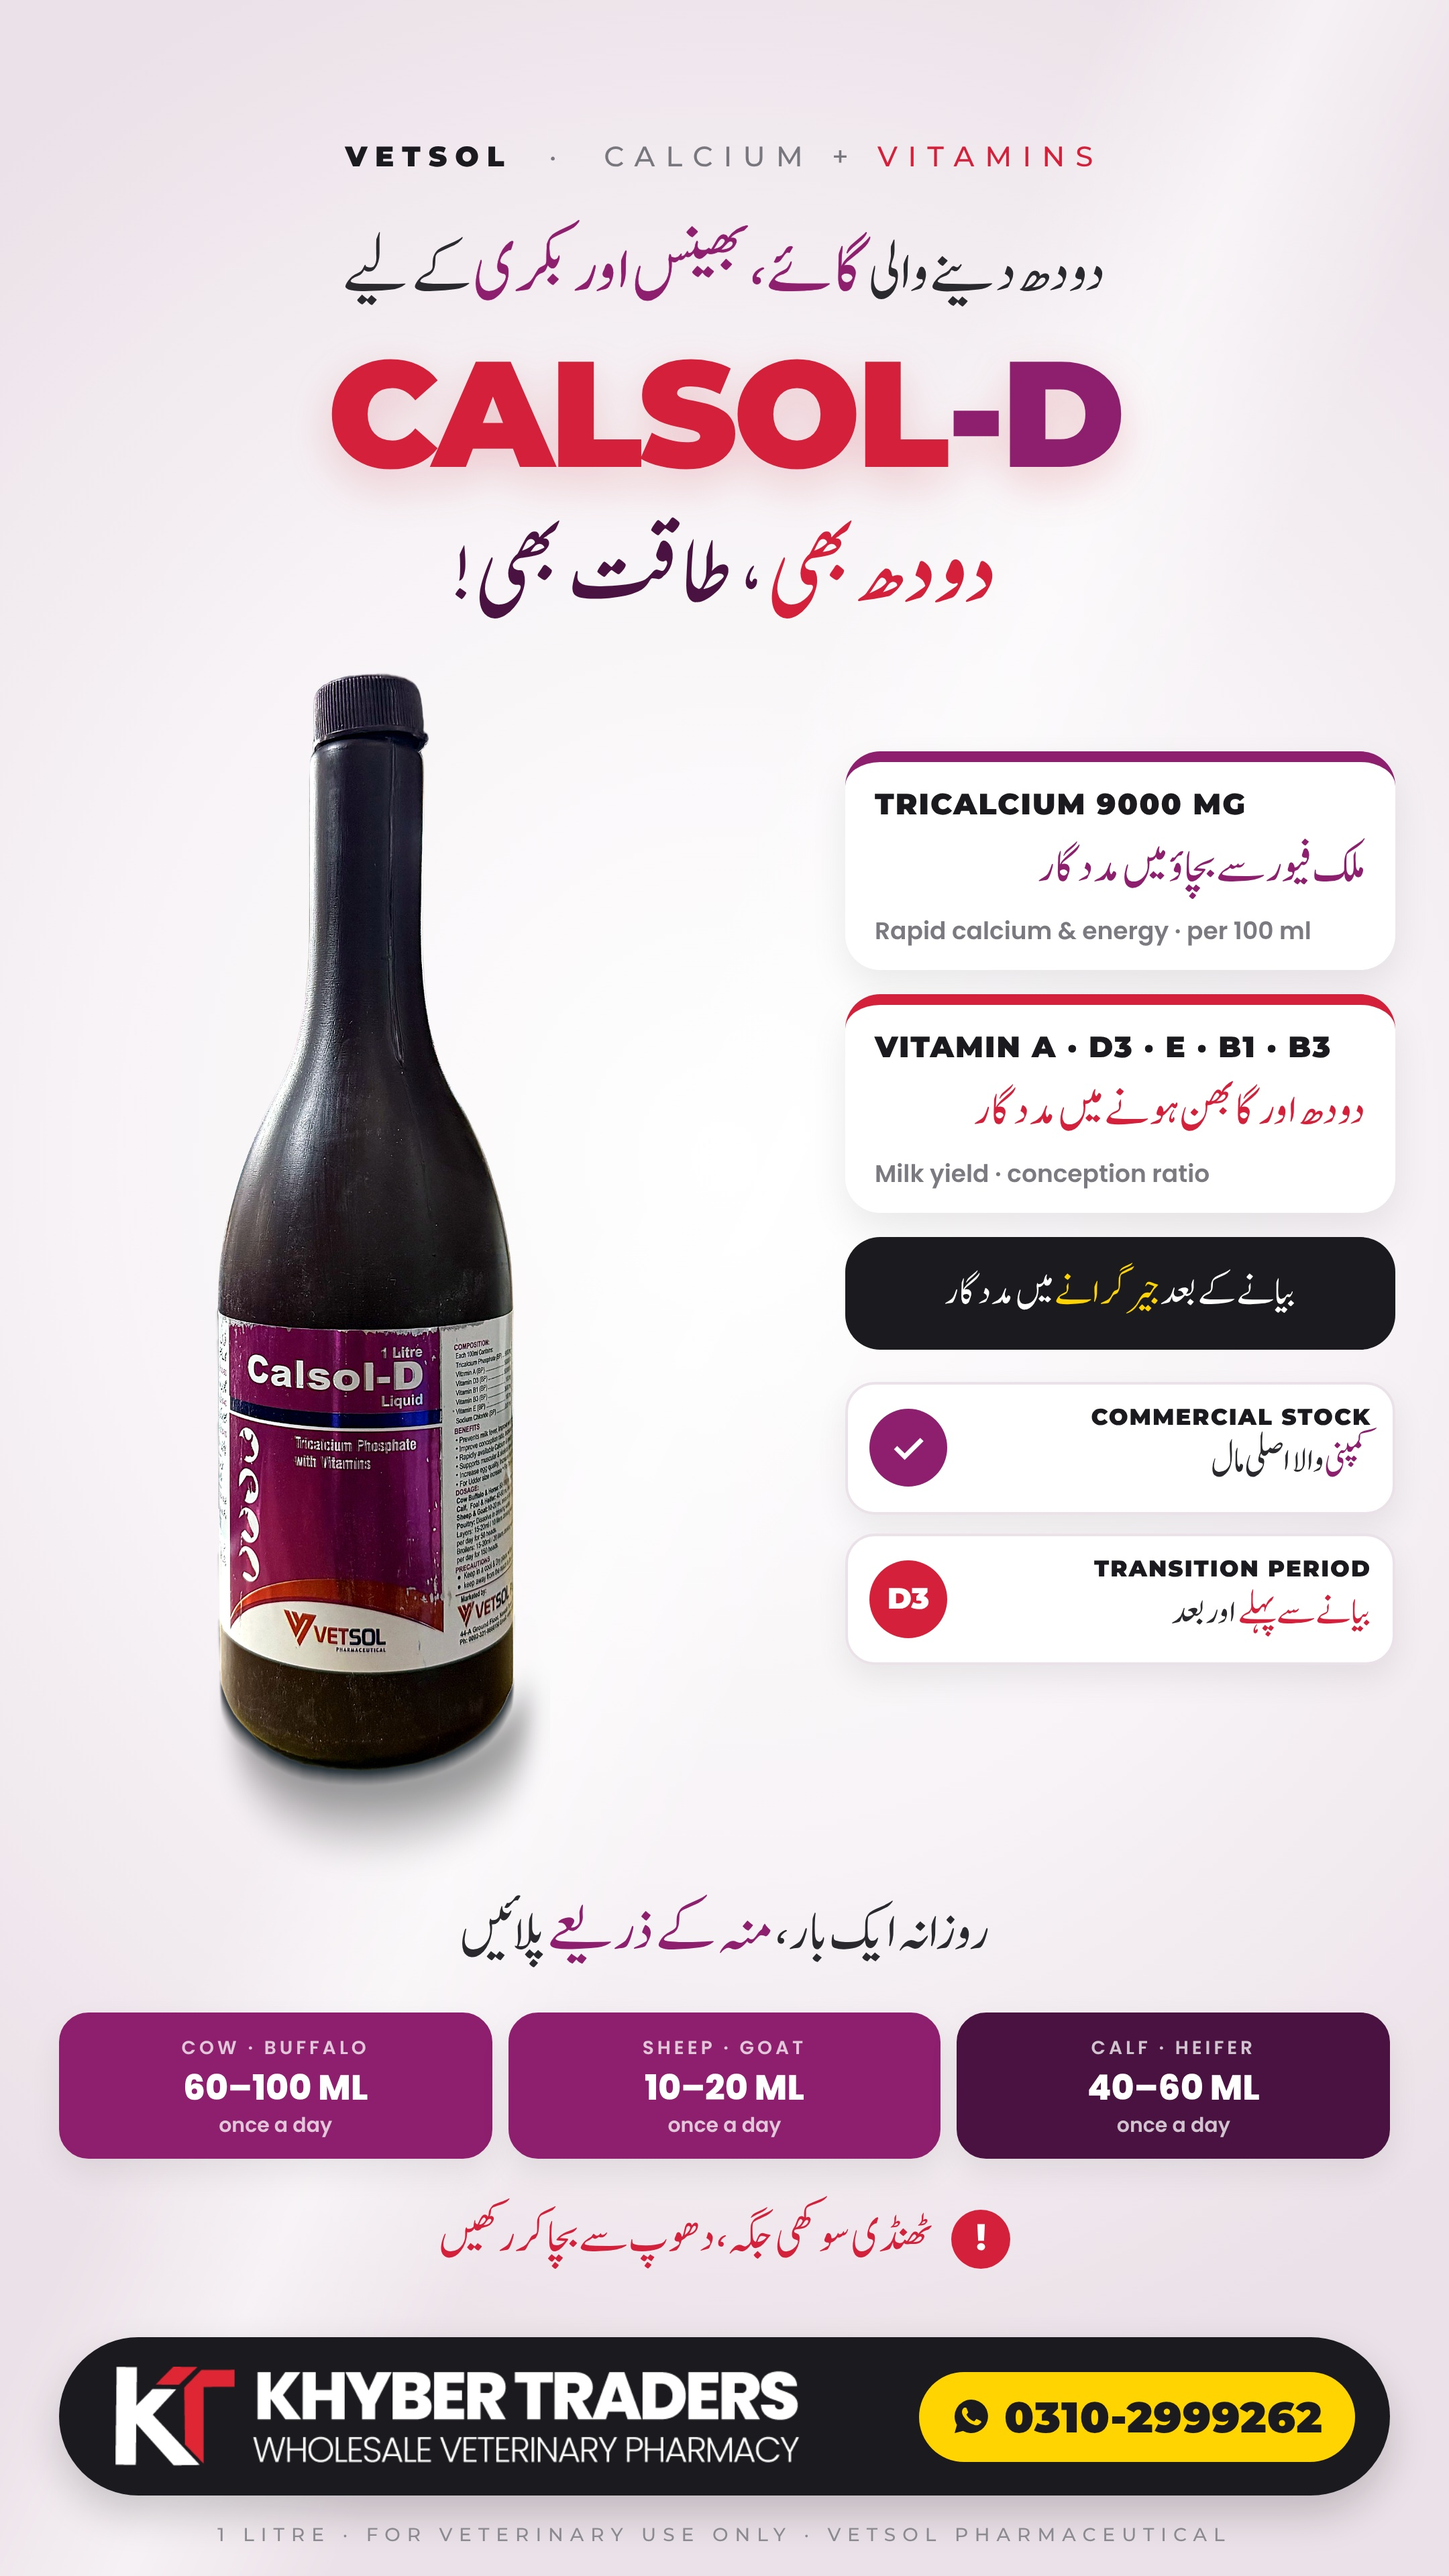
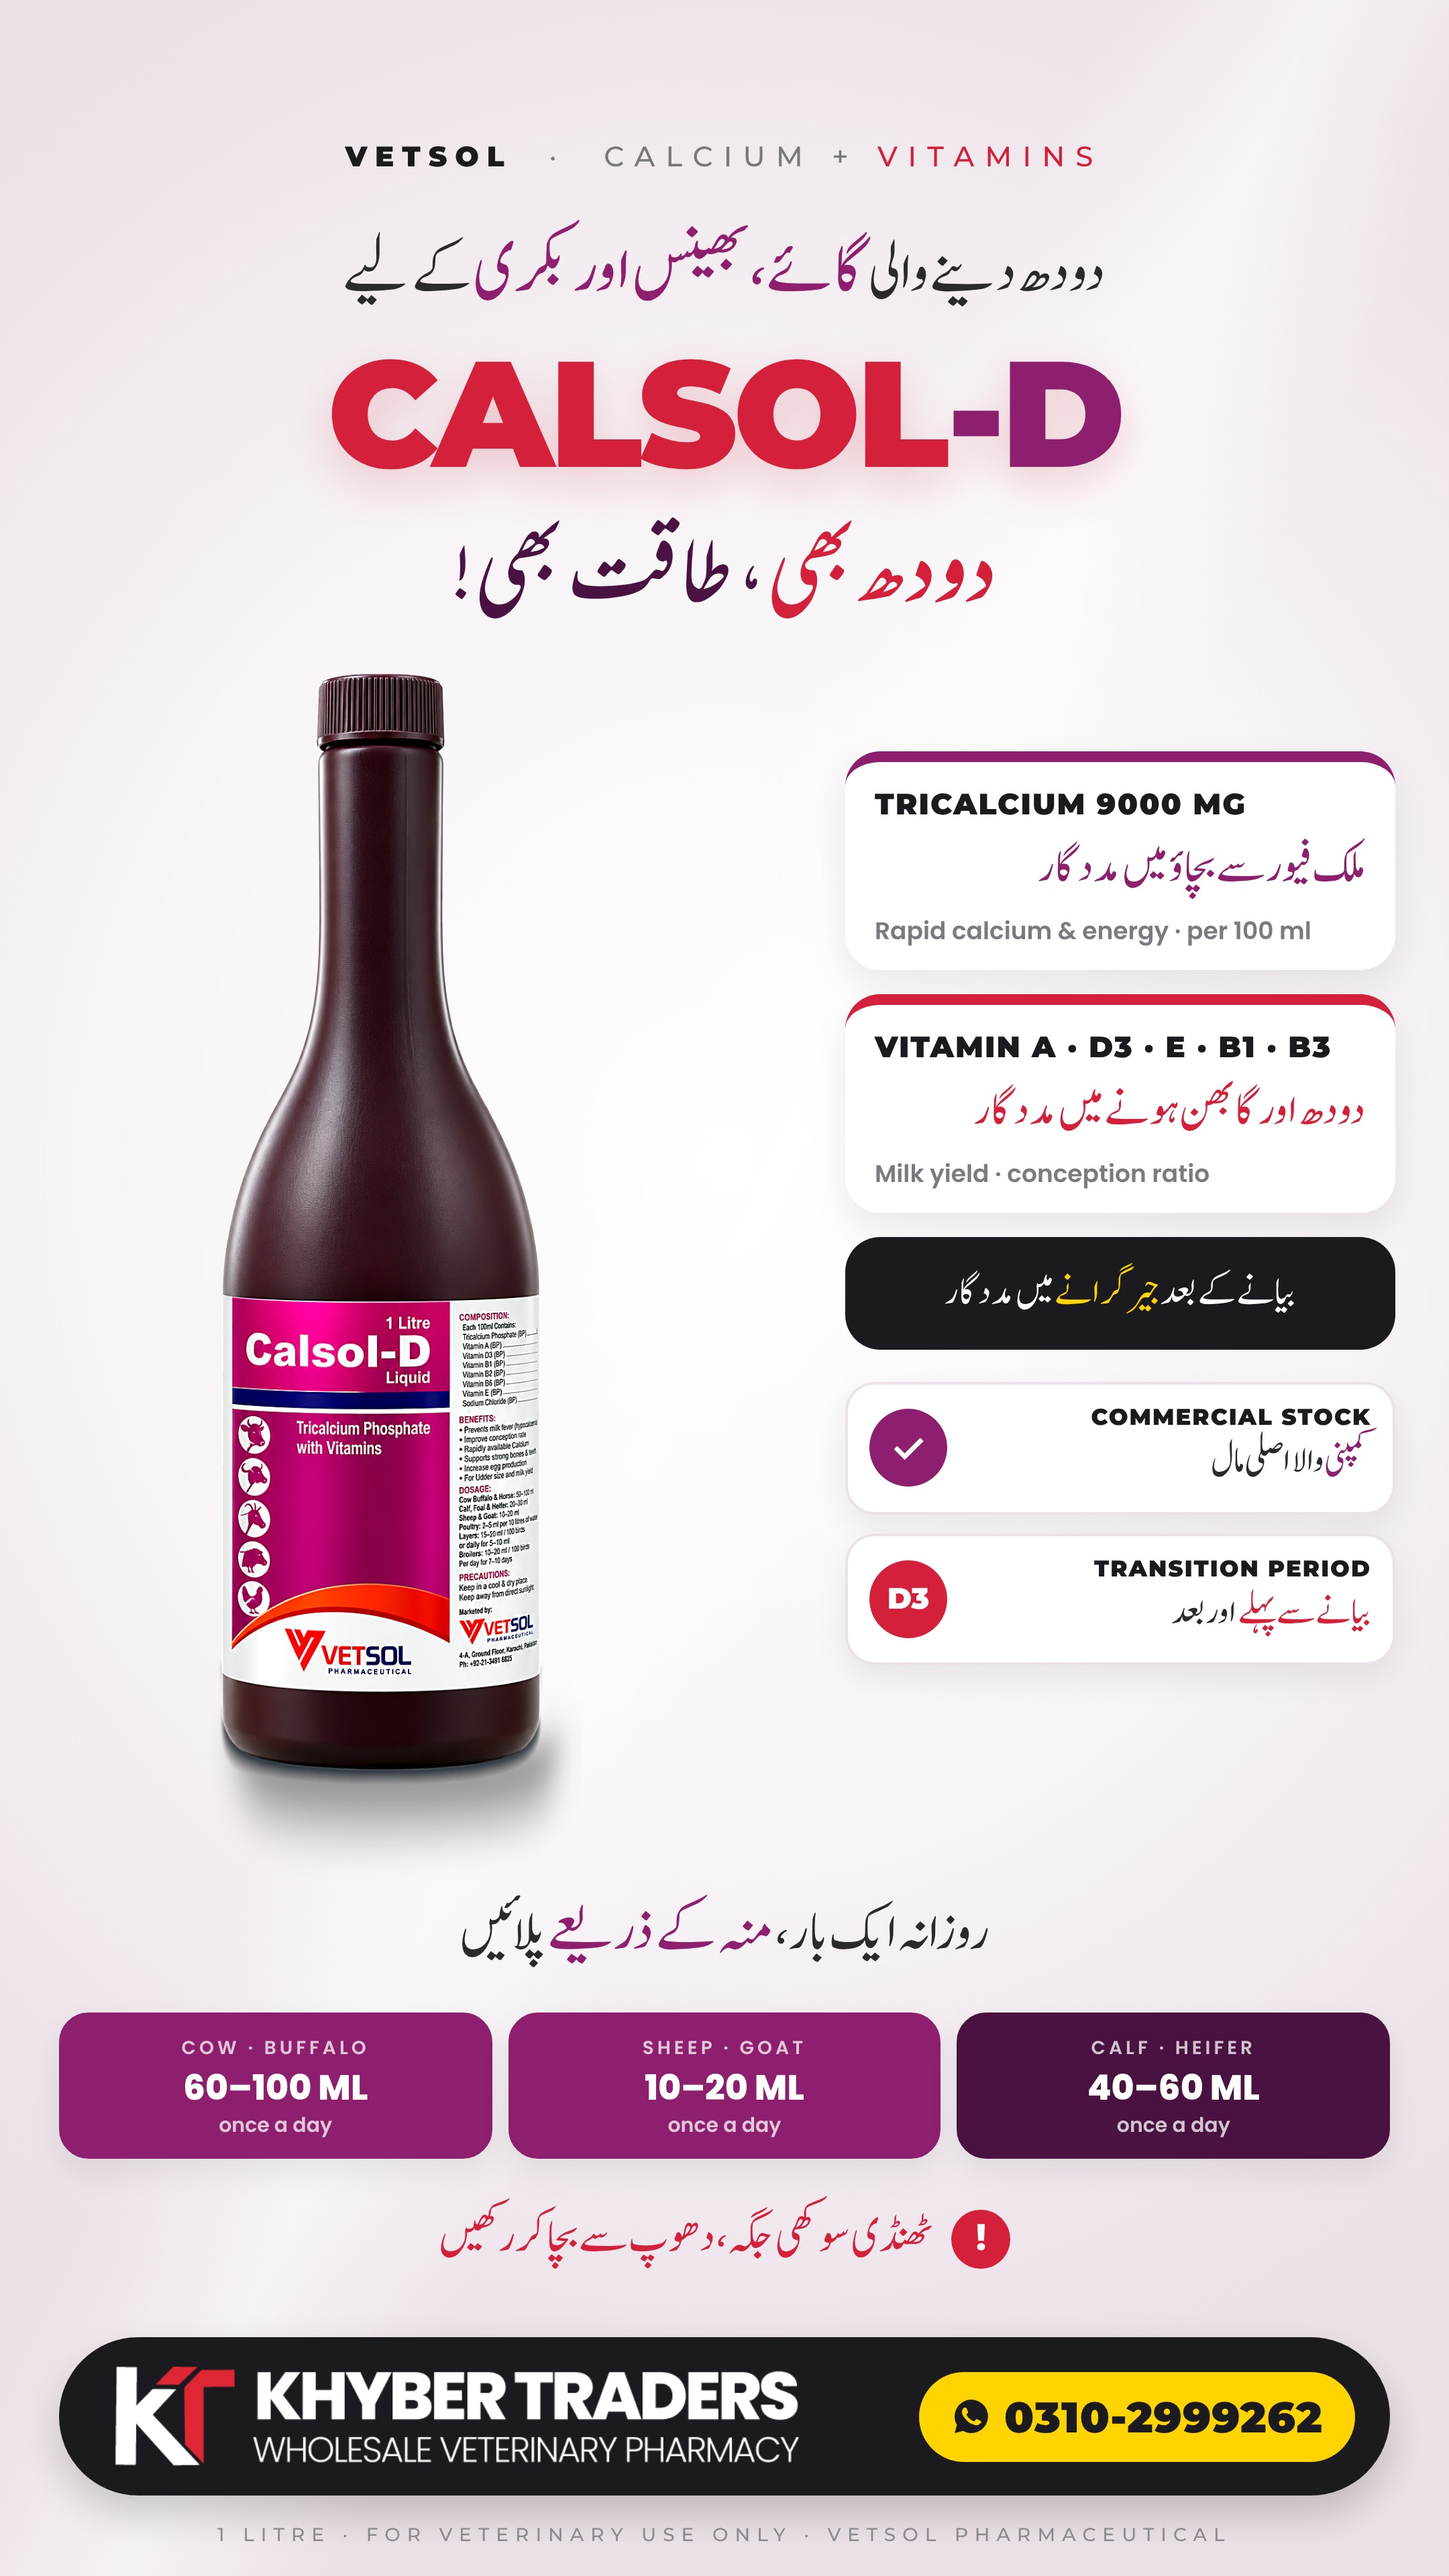
Calsol-D post with the clean bottle image
Claude-Session: https://claude.ai/code/session_0139To4Bi5mkGo2BmfVPNRP3

Changed region(s): [[0.1551, 0.25, 0.4032, 0.7188]]

diff --git a/tools/posts/calsol_post.py b/tools/posts/calsol_post.py
@@ -15,7 +15,7 @@ fonts=[{"family":"Noori","path":F("JameelNooriNastaleeq-400.ttf"),"weight":400,"
  {"family":"Poppins","path":F("Poppins-700.ttf"),"weight":700,"style":"normal"},
  {"family":"Poppins","path":F("Poppins-800.ttf"),"weight":800,"style":"normal"}]
 d=R/"Video Edits/Export/calsol-post"; w=d/"work"; w.mkdir(parents=True,exist_ok=True)
-im=Image.open(R/"Video Edits/Raw/calsol-d/bottle-grounded.png").convert("RGBA"); a=im.split()[3]
+im=Image.open(R/"Video Edits/Raw/calsol-d/bottle-clean-grounded.png").convert("RGBA"); a=im.split()[3]
 x=np.asarray(im.convert("RGB")).astype(np.float32)/255
 lo=np.percentile(x[np.asarray(a)>128],1.5,axis=0); hi=np.percentile(x[np.asarray(a)>128],98.5,axis=0)
 x=np.clip((x-lo)/(hi-lo),0,1)                       # auto levels per channel (removes the grey/yellow cast)
